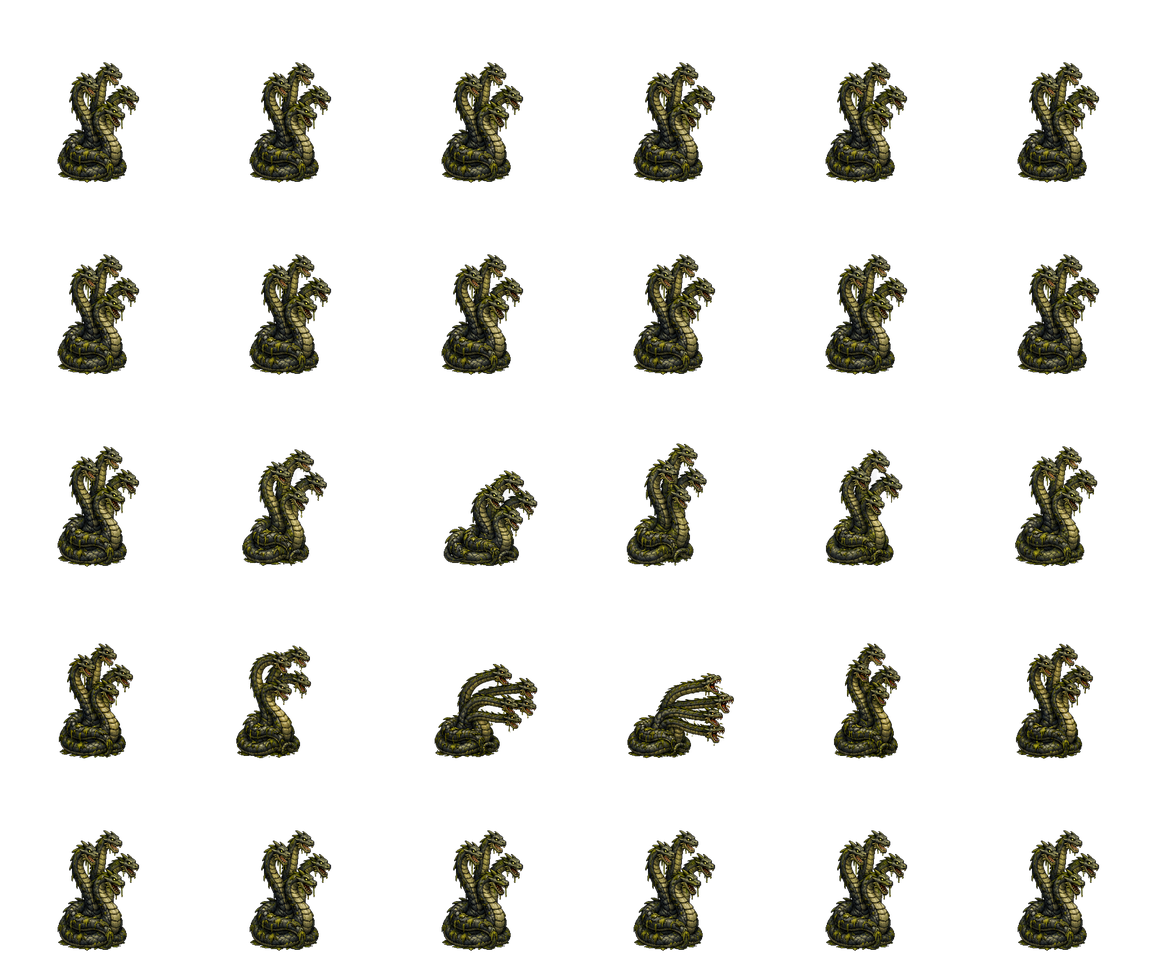
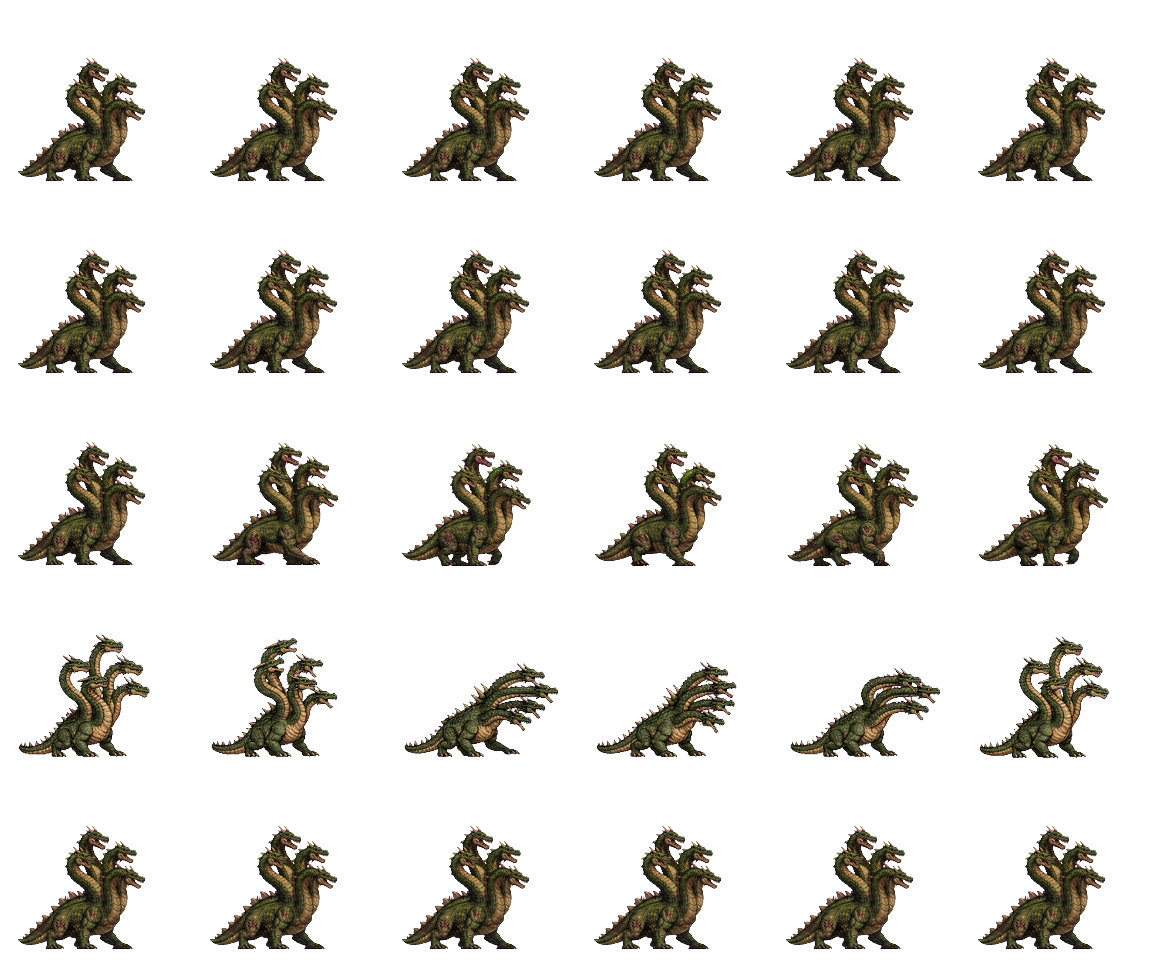
sprite: 古代ハイドラを codex1 hydra (四足竜型) へ差替
Sce3 隠しボス「古代ハイドラ」のスプライトを codex1 の hydra 素材へ差替。
旧シート = 暗いオリーブの蛇型がとぐろを巻く絵 → 新素材 = 緑鱗の四足竜型 + 尾 + 背びれ + 5本の首。
生き物の解釈が変わるため、ユーザーが現行/新素材の2枚を並べて確認のうえ差替を選択。

- 台帳 tools/codex1_sprites.json に hydra を追加 (format:enemy / cell 192 / char_ratio 0.645833
  = 124/192 = 旧シート walk 行の bbox H_max 実測 / scale_from walk / center feet-fit)
- center=feet では attack が右へ 5px はみ出す (アスペクトが W/H 0.66 → walk 1.06 / attack 1.25 の
  横長になるため) → pharaxus と同じ feet-fit で一律オフセット (anchor_x 73.9) を掛けて詰めた
- index.html:6390 の sprite ?v=1 → ?v=2 の1行のみ (参照はこの1箇所だけ / .enemy-hydra の CSS は無い)
- displaySize 360 据置 = 当たり判定不変。画面上の身長 232.5px → 230.6px (-1.9px)、横幅 178 → 246px

検証: driver_hydra_swap.js 41/41 PASS (def 44キー総当たりで差分は sprite ただ1件 / 封印中
display:none → 覚醒で block / walk row2 ⇄ attack row3 / 横クリップなし / 不透明率と陽性対照 /
goblin-mine 回帰 / エラー0)。負のコントロール (HEAD を git worktree で --root) は 32/41 に反転。
台帳からの再生成が評価した出力と md5 一致、既存3シートも出荷済み assets と md5 一致 (冪等)。

diff --git a/tavern.html b/tavern.html
@@ -1979,10 +1979,10 @@
     <div id="changelogBox">
       <div class="changelogHeader">📜 更新情報</div>
       <ul class="changelogList">
+        <li><b>古代ハイドラの姿を一新</b> — 沼の守護神が、五つの首を持つ四足の巨竜として描き直された。</li>
         <li><b>仲間の魔法使いの見た目を一新</b> — 青いローブに光る水晶の杖を持つ初老の魔術師になった。</li>
         <li><b>仲間のドワーフの見た目を一新</b> — 黒い板金鎧に槍を担いだ重厚なドワーフ戦士になった。</li>
         <li><b>リザードマン族長の攻撃モーションを刷新</b> — 斧を振りかぶる動きが一回り大きくなり、沼のボス戦の迫力が増した。</li>
-        <li><b>竜の巣の前庭を横スクロール風の構図に</b> — 奥の壁に巣へ続く大穴が口を開け、赤竜の待つ先が絵で見えるようになった。</li>
       </ul>
     </div>
     <script>

diff --git a/index.html b/index.html
@@ -6387,7 +6387,7 @@
         name: "古代ハイドラ",
         flavor: "沼の最深部に眠る五頭の守護神、リザードマンの崇める古き神",
         badge: "🐲",
-        sprite: "assets/hydra_anim.png?v=1",
+        sprite: "assets/hydra_anim.png?v=2",
         sheetW: 1152, sheetH: 960,
         frameW: 192, frameH: 192, cols: 6, rowOffset: 0,
         displaySize: 360,                    // 巨大ボス (約2.4倍。原寸192px→アップスケール)
